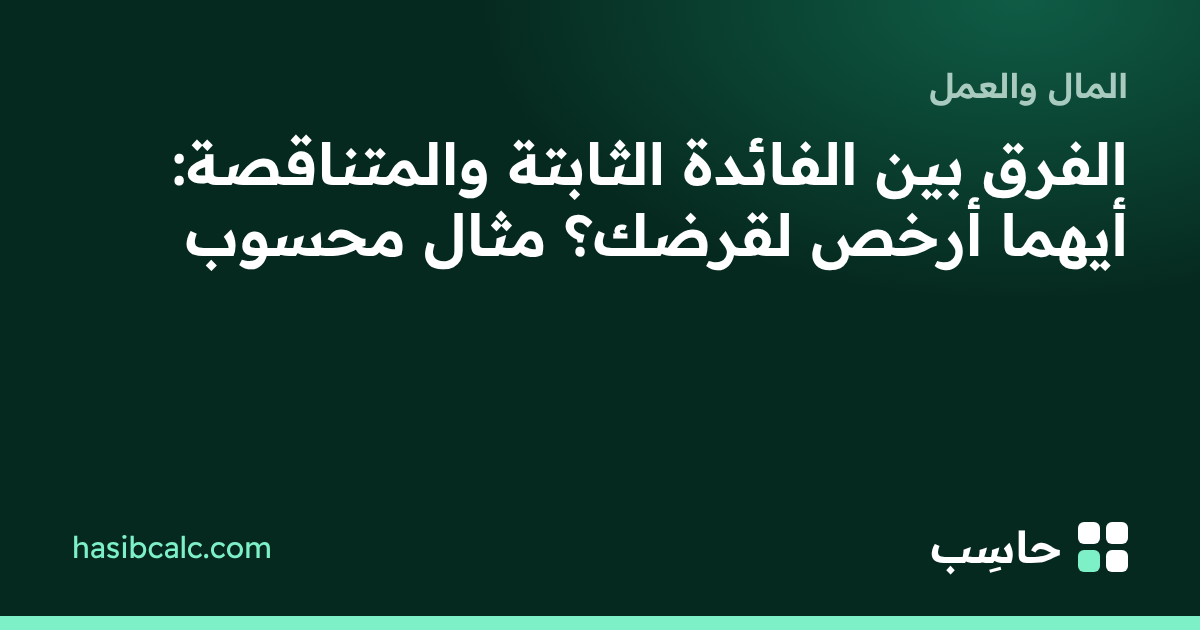
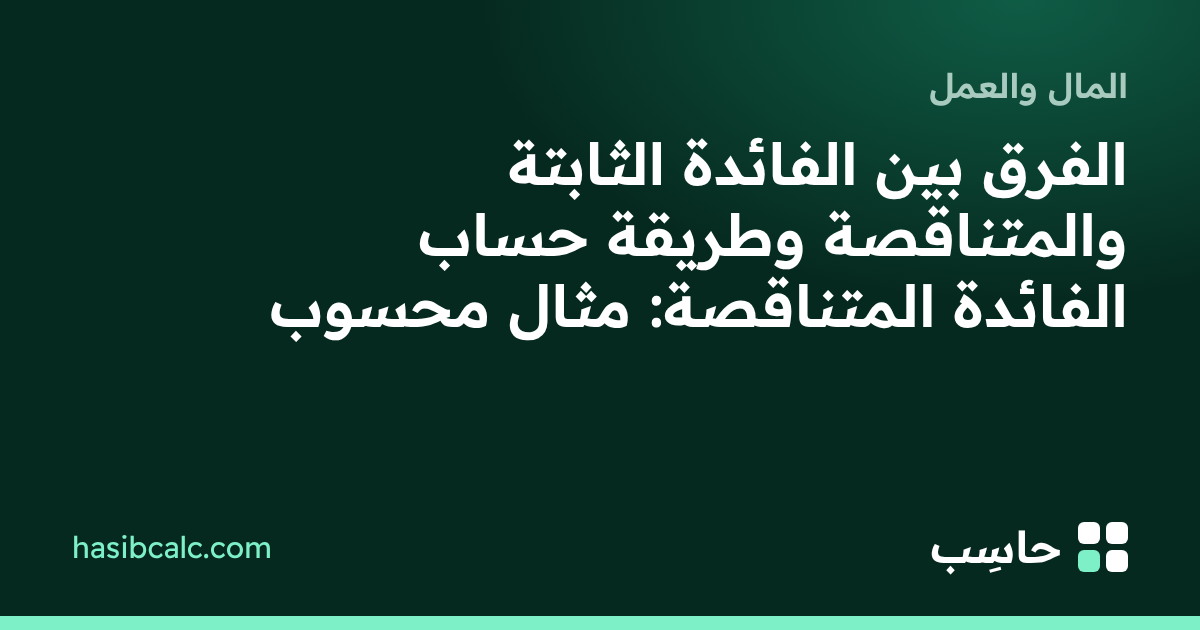
Strengthen guides for their search queries: flat vs reducing interest (short answer, step-by-step reducing-interest method, 6-month and yearly amortization tables computed from the loan lib, FAQ incl. flat→reducing conversion) and UAE National Day 2026 (short answer, weekday/anniversary table 2026–2
Claude-Session: https://claude.ai/code/session_01KKyL8svfUUTjcLXAGNStGe

Changed region(s): [[0.1233, 0.2111, 0.9558, 0.5429]]

diff --git a/src/data/guides.ts b/src/data/guides.ts
@@ -3,11 +3,11 @@ export type Guide = { slug: string; title: string; description: string; calc: st
 
 export const GUIDES: Guide[] = [
   { slug: 'white-friday-2026', title: 'الجمعة البيضاء 2026: كيف تحسب الخصم الحقيقي وتكشف الخصم الوهمي', description: 'الجمعة البيضاء يوم 27 نوفمبر 2026. عدّاد الأيام الباقية، وطريقة حساب الخصم الحقيقي، ولماذا لا يساوي خصمان 30% و20% خصماً واحداً 50%، وعلامات الخصم الوهمي.', calc: 'discount', date: '2026-10-25', minutes: 5, kicker: 'التسوق والنسب' },
-  { slug: 'uae-national-day-2026', title: 'كم باقي على اليوم الوطني الإماراتي 55؟ عدّاد عيد الاتحاد 2026', description: 'عدّاد الأيام الباقية على اليوم الوطني الإماراتي (عيد الاتحاد) الخامس والخمسين يوم 2 ديسمبر 2026، وموعد الإجازة الرسمية، ولماذا نحتفل في 2 ديسمبر.', calc: 'days-between', date: '2026-10-25', minutes: 3, kicker: 'التاريخ والوقت' },
+  { slug: 'uae-national-day-2026', title: 'كم باقي على اليوم الوطني الإماراتي 55؟ عدّاد عيد الاتحاد 2026', description: 'عدّاد الأيام الباقية على اليوم الوطني الإماراتي (عيد الاتحاد) الخامس والخمسين يوم 2 ديسمبر 2026، وموعد الإجازة الرسمية، ولماذا نحتفل في 2 ديسمبر.', calc: 'days-between', date: '2026-10-25', updated: '2026-10-28', minutes: 3, kicker: 'التاريخ والوقت' },
   { slug: 'new-year-2027', title: 'كم باقي على 2027؟ عدّاد رأس السنة الميلادية', description: 'عدّاد الأيام الباقية على رأس السنة الميلادية 2027 (الجمعة 1 يناير)، مع موعد رأس السنة الهجرية 1449 وأهم مواعيد السنة الجديدة.', calc: 'days-between', date: '2026-10-25', minutes: 3, kicker: 'التاريخ والوقت' },
   { slug: 'ramadan-1448', title: 'كم باقي على رمضان 1448؟ موعد رمضان والعيدين بتقويم أم القرى', description: 'عدّاد الأيام المتبقية على رمضان 1448 هـ، وموعد أول رمضان وعيد الفطر ويوم عرفة وعيد الأضحى بتقويم أم القرى، ولماذا قد يختلف الإعلان الرسمي يوماً.', calc: 'hijri', date: '2026-10-21', updated: '2026-10-24', minutes: 4, kicker: 'التاريخ والوقت' },
   { slug: 'end-of-service-guide', title: 'مكافأة نهاية الخدمة في الإمارات: الدليل الكامل بالأمثلة', description: 'كيف تُحسب مكافأة نهاية الخدمة للقطاع الخاص في الإمارات وفق المادة 51: الأجر اليومي، و21 و30 يوماً، والحد الأعلى، وأمثلة محسوبة.', calc: 'end-of-service', date: '2026-10-21', minutes: 6, kicker: 'المال والعمل' },
-  { slug: 'flat-vs-reducing-interest', title: 'الفرق بين الفائدة الثابتة والمتناقصة: أيهما أرخص لقرضك؟ مثال محسوب', description: 'لماذا تبدو الفائدة الثابتة 4.5% أرخص وهي ليست كذلك؟ مقارنة محسوبة بين الفائدة الثابتة والمتناقصة على قرض 100,000 درهم.', calc: 'loan', date: '2026-10-21', updated: '2026-10-25', minutes: 5, kicker: 'المال والعمل' },
+  { slug: 'flat-vs-reducing-interest', title: 'الفرق بين الفائدة الثابتة والمتناقصة وطريقة حساب الفائدة المتناقصة: مثال محسوب', description: 'لماذا تبدو الفائدة الثابتة 4.5% أرخص وهي ليست كذلك؟ مقارنة محسوبة بين الفائدة الثابتة والمتناقصة على قرض 100,000 درهم.', calc: 'loan', date: '2026-10-21', updated: '2026-10-28', minutes: 5, kicker: 'المال والعمل' },
   { slug: 'vat-gulf-guide', title: 'ضريبة القيمة المضافة في الخليج: النسب وطريقة الحساب', description: 'نسب ضريبة القيمة المضافة في الإمارات والسعودية والبحرين وعُمان، وكيف تضيف الضريبة إلى السعر أو تستخرجها من سعر شامل.', calc: 'vat', date: '2026-10-21', minutes: 4, kicker: 'التسوق والنسب' },
   { slug: 'zakat-step-by-step', title: 'كيف أحسب زكاة مالي؟ خطوة بخطوة مع مثال', description: 'طريقة حساب زكاة المال: النصاب بالذهب، والحول، وما يدخل في الحساب وما يُخصم، مع مثال محسوب بربع العشر.', calc: 'zakat', date: '2026-10-21', minutes: 5, kicker: 'المال والعمل' },
   { slug: 'pregnancy-weeks-months', title: 'أسابيع الحمل بالأشهر: جدول من الأسبوع 1 إلى 40، والشهر كم أسبوع؟', description: 'كم أسبوعاً في شهر الحمل، وفي أي شهر أنتِ حسب أسبوعك: جدول كامل يحوّل أسابيع الحمل إلى أشهر وأثلاث، مع محوّل سريع وأسئلة شائعة.', calc: 'pregnancy', date: '2026-10-21', updated: '2026-10-27', minutes: 5, kicker: 'الصحة والعمر' },

diff --git a/src/styles/global.css b/src/styles/global.css
@@ -224,7 +224,8 @@ details.how .how-body { padding-bottom: 14px; }
 .ledger .muted { color: var(--soft); font-size: .86rem; }
 .zl td:nth-child(2) { color: var(--soft); }
 .zl tr.total td:nth-child(2) { color: var(--ink); }
-.scroll-x { overflow-x: auto; }
+.scroll-x { overflow-x: auto; max-width: 100%; }
+.article.card { min-width: 0; }
 
 /* timeline (end of service) */
 .tl { position: relative; padding-top: 36px; }
